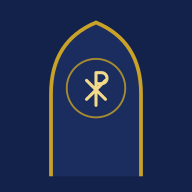
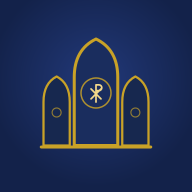
Novo ícone do app com as três capelas

Changed region(s): [[0.1875, 0.0938, 0.8125, 0.9375], [0.4375, 0.1875, 0.5625, 0.25]]

diff --git a/sw.js b/sw.js
@@ -1,5 +1,5 @@
 // Fé Diária: funciona offline com o último conteúdo baixado
-const CACHE="fe-diaria-v1";
+const CACHE="fe-diaria-v2";
 const SHELL=["./","index.html","manifest.webmanifest","icons/icon-192.png","icons/icon-512.png","icons/tv-poster.png","sobre.html","privacidade.html","contato.html"];
 self.addEventListener("install",e=>{e.waitUntil(caches.open(CACHE).then(c=>c.addAll(SHELL)).then(()=>self.skipWaiting()));});
 self.addEventListener("activate",e=>{e.waitUntil(caches.keys().then(ks=>Promise.all(ks.filter(k=>k!==CACHE).map(k=>caches.delete(k)))).then(()=>self.clients.claim()));});
